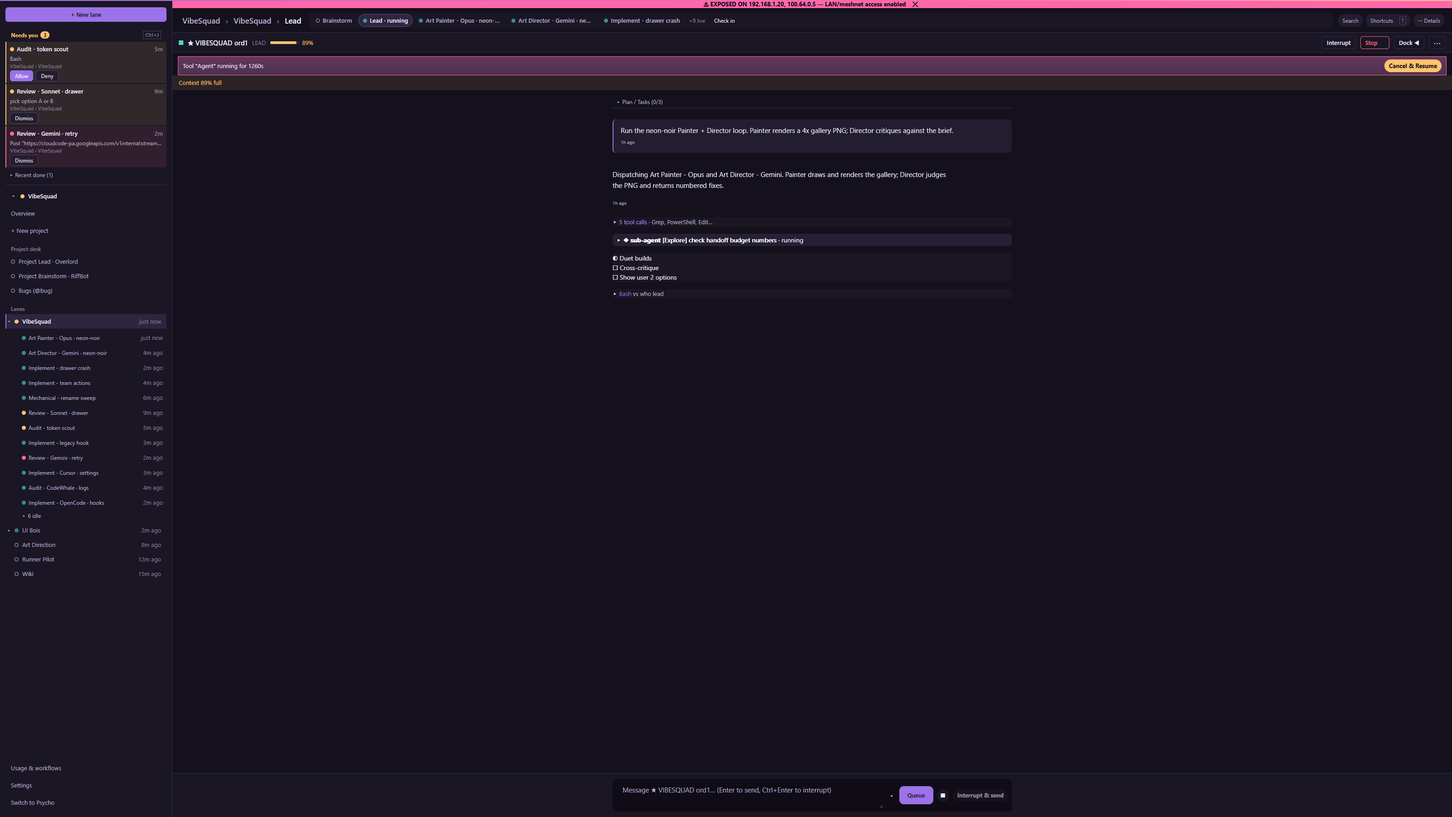
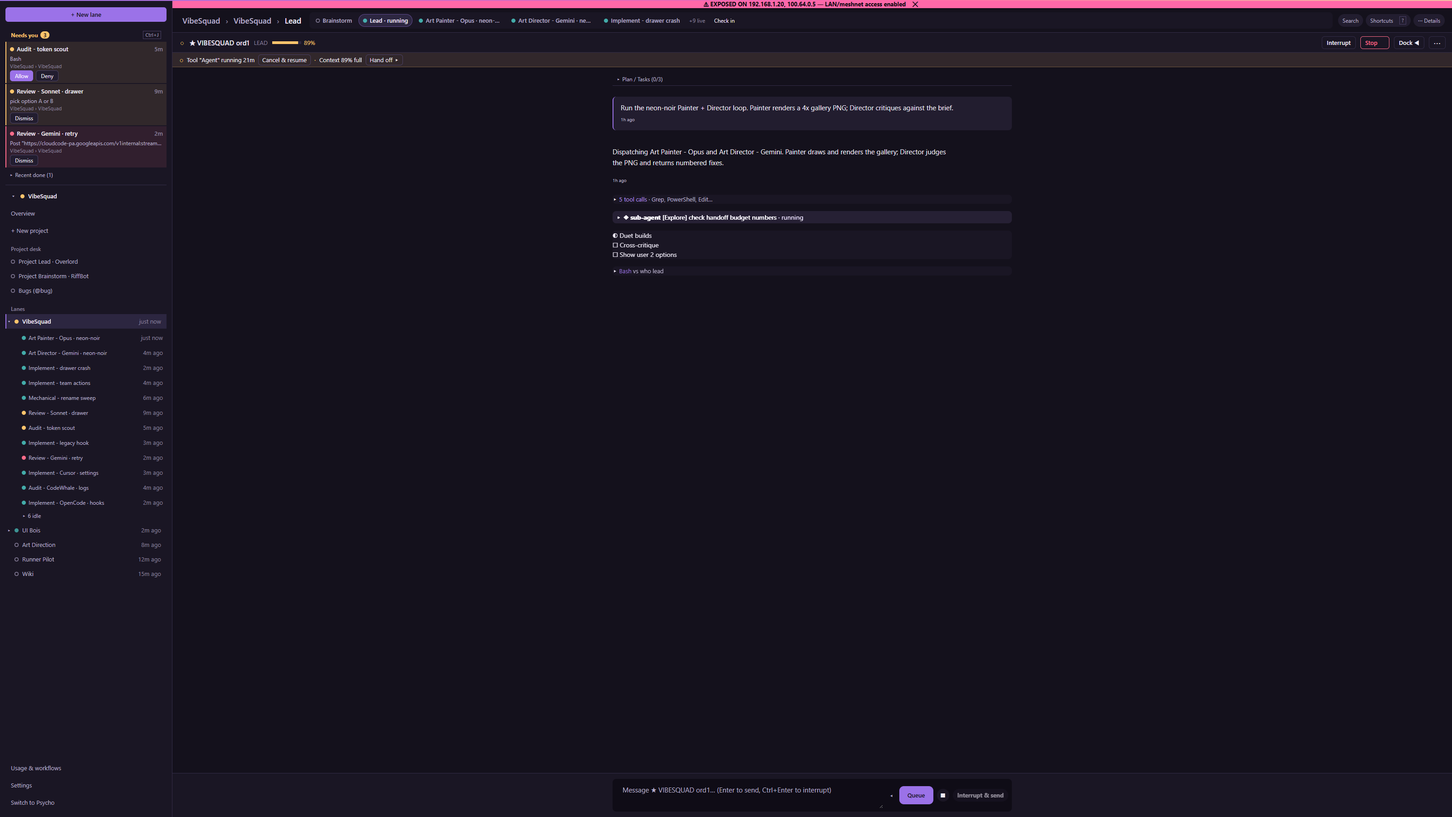
D3a director/code review fixes: single 32px amber strip with ghost actions + human durations, text state glyph, Normal flag bar, reload catch, Ctrl+Enter summary save

Changed region(s): [[0.0938, 0.0311, 1.0, 0.3422]]

diff --git a/src/BoringAgentHeader.tsx b/src/BoringAgentHeader.tsx
@@ -1,11 +1,11 @@
 import { useEffect, useRef, useState } from "react";
 import type { PaseoAgent } from "./agentTypes";
-import { archiveAgent, markAgentRead, markAgentUnread, stopAgent } from "./paseo";
+import { archiveAgent, markAgentRead, markAgentUnread, sendMessage, stopAgent } from "./paseo";
 import { DEMO } from "./demoFlag";
 import { isLocallyHidden, isMarkedUnread } from "./attentionLocal";
 import { runnerReloadTimeline } from "./runnerBridge";
 import { AgentTitleEdit } from "./QuickWinsUi";
-import { shouldComposerSubmit } from "./IdeaInbox";
+import { isImeComposing, shouldComposerSubmit } from "./IdeaInbox";
 import { ConfirmButton, ago, shortPath, useTick } from "./ui";
 import { LEGACY_NEEDS_LABEL } from "./userName";
 import { AGENT_TYPE_LABEL, kindOf } from "./teams";
@@ -16,7 +16,7 @@ import { AttachFiles, HardeningBar, NeedsYouControls, SessionActions, formatCost
 import { useAgentConfig } from "./useAgentConfig";
 import { FeaturesMenu } from "./FeaturesMenu";
 import { SandboxView } from "./SandboxView";
-import { auditAntigravityAgent } from "./antigravity";
+import { CANCEL_AND_RESUME_PROMPT, auditAntigravityAgent } from "./antigravity";
 import { openBriefEditor } from "./pinActions";
 import type { Entry } from "./Timeline";
 import { BORING_CTX_WARN_PCT, boringHeaderStrip } from "./boringHeaderStrip";
@@ -65,21 +65,33 @@ export type BoringAgentHeaderProps = {
   onFeedback: (verdict: "good" | "lost") => Promise<void>;
 };
 
+const GLYPH_CHAR: Record<string, string> = { run: "●", idle: "○", attn: "!", stalled: "◌", err: "✕", done: "✓" };
+
+function humanAge(sec: number): string {
+  if (sec < 120) return `${sec}s`;
+  if (sec < 7200) return `${Math.round(sec / 60)}m`;
+  return `${Math.round(sec / 3600)}h`;
+}
+
 export function BoringAgentHeader(p: BoringAgentHeaderProps) {
   const { agent } = p;
   const now = useTick();
   const [menuOpen, setMenuOpen] = useState(false);
   const [reloadBusy, setReloadBusy] = useState(false);
   const [copied, setCopied] = useState("");
+  const [flagOpen, setFlagOpen] = useState(false);
+  const [resumeBusy, setResumeBusy] = useState(false);
   const menuRef = useRef<HTMLDivElement>(null);
   // Same provider/model/mode/thinking state + Shift+Tab mode cycling as Psycho DrawerHeader (shared hook).
   const cfg = useAgentConfig({ agent, active: p.active, isBs: p.isBs, onSuccessor: p.onSuccessor, doRestart: p.doRestart, stagedSwitch: p.stagedSwitch, onStageSwitch: p.onStageSwitch });
-  const attachBlocked = !!auditAntigravityAgent(agent, p.entries).a5ReadBlocked;
+  const audit = auditAntigravityAgent(agent, p.entries);
+  const attachBlocked = !!audit.a5ReadBlocked;
+  const hung = audit.a3HungTool;
   const labels = (agent.labels ?? {}) as Record<string, string>;
   const kind = kindOf(agent);
   const prov = providerSpec(agent.provider);
 
-  useEffect(() => setMenuOpen(false), [agent.id]);
+  useEffect(() => { setMenuOpen(false); setFlagOpen(false); }, [agent.id]);
   useEffect(() => {
     if (!menuOpen) return;
     const onDown = (e: PointerEvent) => {
@@ -115,13 +127,28 @@ export function BoringAgentHeader(p: BoringAgentHeaderProps) {
     planHandedOff: p.planHandedOff,
     nowMs: now,
   });
-  const glyph = boringStateGlyph(strip.some((s) => s.kind === "stalled") ? "stalled" : agent.status, p.att?.tone);
+  const hungText = hung ? `Tool "${hung.name}" running ${humanAge(hung.ageSeconds)}` : "";
+  const stripItems = strip.map((s) => (s.kind === "stalled" ? { ...s, text: hung && p.active ? hungText : s.text.replace(/^Stalled: no update for /, "No update for ") } : s));
+  if (hung && p.active && !stripItems.some((s) => s.kind === "stalled")) stripItems.unshift({ kind: "stalled", text: hungText });
+  const glyph = boringStateGlyph(stripItems.some((s) => s.kind === "stalled") ? "stalled" : agent.status, p.att?.tone);
+  const cancelResume = async () => {
+    if (!hung) return;
+    setResumeBusy(true);
+    try {
+      await stopAgent(agent.id);
+      await sendMessage(agent.id, CANCEL_AND_RESUME_PROMPT(hung.name), undefined, { activeTurnBehavior: "interrupt" });
+    } catch (e) {
+      alert(`Cancel & resume failed: ${e}`);
+    } finally {
+      setResumeBusy(false);
+    }
+  };
   const running = agent.status === "running" && !agent.archivedAt;
   const roleLine = [AGENT_TYPE_LABEL[p.agentType], labels.lane ? `@${labels.lane}` : ""].filter(Boolean).join(" · ");
   const canHandoff = !agent.archivedAt && ((kind === "lead" && !!p.onSuccessor) || p.isBs);
   const close = () => setMenuOpen(false);
   const cost = (agent.lastUsage as any)?.totalCostUsd ?? (agent as any)?.usage?.totalCostUsd;
-  const showNeedsYou = needsYouFlagged || isMarkedUnread(agent.id);
+  const showNeedsYou = needsYouFlagged || isMarkedUnread(agent.id) || flagOpen;
   const copy = (what: string, text: string) => {
     navigator.clipboard?.writeText(text).catch(() => {});
     setCopied(what);
@@ -131,7 +158,7 @@ export function BoringAgentHeader(p: BoringAgentHeaderProps) {
   return (
     <>
       <header className="boring-agent-header" data-testid="boring-agent-header" data-glyph={glyph}>
-        <span className={`boring-agent-glyph st-${glyph}`} data-testid="boring-agent-glyph" title={p.att?.reason ?? agent.status} />
+        <span className={`boring-agent-glyph st-${glyph}`} data-testid="boring-agent-glyph" title={p.att?.reason ?? agent.status} aria-label={glyph}>{GLYPH_CHAR[glyph] ?? "○"}</span>
         <span className="boring-agent-name" data-testid="boring-agent-name">
           <AgentTitleEdit agent={agent}>{agent.title ?? agent.id.slice(0, 8)}</AgentTitleEdit>
         </span>
@@ -199,6 +226,9 @@ export function BoringAgentHeader(p: BoringAgentHeaderProps) {
                   Mark unread
                 </button>
               )}
+              <button type="button" role="menuitem" data-testid="boring-flag-btn" title="Flag this chat as needing you" onClick={() => { setFlagOpen((v) => !v); close(); }}>
+                {flagOpen ? "Hide flag bar" : "Flag needs you…"}
+              </button>
               <button type="button" role="menuitem" data-testid="drawer-search-btn" title="Search transcript, jump between prompts, filter the timeline" onClick={() => { window.dispatchEvent(new CustomEvent("vs:timeline-search", { detail: { agentId: agent.id } })); close(); }}>
                 Search transcript
               </button>
@@ -212,7 +242,8 @@ export function BoringAgentHeader(p: BoringAgentHeaderProps) {
                   close();
                   if (DEMO) return;
                   setReloadBusy(true);
-                  try { runnerReloadTimeline(agent.id); } finally { setReloadBusy(false); }
+                  cfg.setReloadError("");
+                  try { runnerReloadTimeline(agent.id); } catch (e) { cfg.setReloadError(String(e)); } finally { setReloadBusy(false); }
                 }}
               >
                 Reload session
@@ -328,7 +359,18 @@ export function BoringAgentHeader(p: BoringAgentHeaderProps) {
           {p.summaryLoading ? (
             <div className="muted small">Loading summary…</div>
           ) : (
-            <textarea rows={6} value={p.summaryText} onChange={(e) => p.setSummaryText(e.target.value)} placeholder="# Brainstorm Summary (Decided / Open / In flight)" />
+            <textarea
+              rows={6}
+              value={p.summaryText}
+              onChange={(e) => p.setSummaryText(e.target.value)}
+              placeholder="# Brainstorm Summary (Decided / Open / In flight)"
+              onKeyDown={(e) => {
+                if ((e.key === "Enter" || e.code === "Enter" || e.code === "NumpadEnter") && !isImeComposing(e) && (e.ctrlKey || e.metaKey) && !p.summarySaving && !p.summaryLoading) {
+                  e.preventDefault();
+                  void p.saveSummary();
+                }
+              }}
+            />
           )}
         </div>
       )}
@@ -359,12 +401,35 @@ export function BoringAgentHeader(p: BoringAgentHeaderProps) {
         </div>
       )}
       {p.att && p.att.tone !== "needs-you" && p.att.tone !== "finished" && <div className={`banner ${p.att.tone}`}>{p.att.reason}</div>}
-      {showNeedsYou ? <NeedsYouControls agent={agent} /> : null}
-      {p.active && <HardeningBar agent={agent} entries={p.entries} />}
-      {strip.length > 0 && (
+      {showNeedsYou ? <div className="boring-needs-you-wrap"><NeedsYouControls agent={agent} /></div> : null}
+      {p.active && <HardeningBar agent={agent} entries={p.entries} hideHungTool />}
+      {stripItems.length > 0 && (
         <div className="boring-status-strip" data-testid="boring-status-strip" role="status">
-          {strip.map((s) => (
-            <span key={s.kind} className={`boring-strip-item strip-${s.kind}`} data-strip={s.kind}>{s.text}</span>
+          {stripItems.map((s, i) => (
+            <span key={s.kind} className={`boring-strip-item strip-${s.kind}`} data-strip={s.kind}>
+              {i > 0 && <span className="boring-strip-sep" aria-hidden="true">·</span>}
+              {s.kind === "stalled" && <span className="boring-strip-glyph" aria-hidden="true">◌</span>}
+              {s.text}
+              {s.kind === "stalled" && hung && p.active && (
+                <button type="button" className="boring-strip-btn" data-testid="boring-strip-resume" disabled={resumeBusy} onClick={() => void cancelResume()}>
+                  {resumeBusy ? "…" : "Cancel & resume"}
+                </button>
+              )}
+              {s.kind === "context" && canHandoff && (
+                <button
+                  type="button"
+                  className="boring-strip-btn"
+                  data-testid="boring-strip-handoff"
+                  disabled={p.restarting}
+                  onClick={() => {
+                    if (p.isBs) void p.doRestart(p.planHandedOff ? "handoff" : p.bsUsedTokens >= p.warnTokens ? "warn-80k" : "manual");
+                    else p.onSuccessor?.();
+                  }}
+                >
+                  Hand off ▸
+                </button>
+              )}
+            </span>
           ))}
         </div>
       )}

diff --git a/src/boring.css b/src/boring.css
@@ -975,12 +975,11 @@ html[data-vibe="boring"] .boring-topbar-title { flex: 0 0 auto; }
 
 /* ===== D3a (@desk, UX_REVIEW 2.6): BoringAgentHeader ===== */
 html[data-vibe="boring"] .boring-agent-header { display: flex; align-items: center; gap: 10px; min-height: 44px; padding: 6px 14px; background: var(--surface-1); border-bottom: 1px solid var(--border); position: relative; flex: 0 0 auto; }
-html[data-vibe="boring"] .boring-agent-glyph { flex: 0 0 auto; width: 10px; height: 10px; border-radius: 50%; background: var(--text-3); }
-html[data-vibe="boring"] .boring-agent-glyph.st-run { background: var(--st-run); }
-html[data-vibe="boring"] .boring-agent-glyph.st-attn { background: var(--st-attn); }
-html[data-vibe="boring"] .boring-agent-glyph.st-err { background: var(--st-err); }
-html[data-vibe="boring"] .boring-agent-glyph.st-done { background: var(--st-done); }
-html[data-vibe="boring"] .boring-agent-glyph.st-stalled { background: transparent; box-shadow: inset 0 0 0 1.5px var(--st-attn); }
+html[data-vibe="boring"] .boring-agent-glyph { flex: 0 0 auto; width: 14px; text-align: center; font: 600 14px/1 var(--font-sans, inherit); color: var(--text-3); background: none; border-radius: 0; }
+html[data-vibe="boring"] .boring-agent-glyph.st-run { color: var(--st-run); }
+html[data-vibe="boring"] .boring-agent-glyph.st-attn, html[data-vibe="boring"] .boring-agent-glyph.st-stalled { color: var(--st-attn); }
+html[data-vibe="boring"] .boring-agent-glyph.st-err { color: var(--st-err); }
+html[data-vibe="boring"] .boring-agent-glyph.st-done { color: var(--st-done); }
 html[data-vibe="boring"] .boring-agent-name { font-size: 15px; font-weight: 600; color: var(--text-1); min-width: 0; overflow: hidden; text-overflow: ellipsis; white-space: nowrap; }
 html[data-vibe="boring"] .boring-agent-role { font-size: var(--t-ui); color: var(--text-3); white-space: nowrap; }
 html[data-vibe="boring"] .boring-agent-spacer { flex: 1 1 0; }
@@ -1001,17 +1000,21 @@ html[data-vibe="boring"] .boring-agent-menu > button:disabled { opacity: 0.5; }
 html[data-vibe="boring"] .boring-agent-menu-sep { height: 1px; margin: 4px 6px; background: var(--border); }
 html[data-vibe="boring"] .boring-agent-menu-meta { padding: 4px 10px; font-size: 12px; color: var(--text-3); }
 html[data-vibe="boring"] .boring-agent-menu-archive { padding: 4px 6px; }
-html[data-vibe="boring"] .boring-status-strip { display: flex; align-items: center; gap: 16px; height: 32px; padding: 0 14px; flex: 0 0 auto; background: var(--st-attn-bg); border-bottom: 1px solid var(--border); font-size: var(--t-ui); color: var(--st-attn); }
-html[data-vibe="boring"] .boring-strip-item.strip-context:last-child { color: var(--st-attn); }
+html[data-vibe="boring"] .boring-status-strip { display: flex; align-items: center; gap: 8px; height: 32px; margin: 0; border-radius: 0; padding: 0 16px; flex: 0 0 auto; background: color-mix(in srgb, var(--st-attn) 10%, var(--surface-1)); border-bottom: 1px solid color-mix(in srgb, var(--st-attn) 30%, transparent); font-size: var(--t-ui); color: var(--text-1); }
+html[data-vibe="boring"] .boring-strip-item { display: inline-flex; align-items: center; gap: 8px; color: var(--text-1); }
+html[data-vibe="boring"] .boring-strip-glyph, html[data-vibe="boring"] .boring-strip-sep { color: var(--st-attn); }
+html[data-vibe="boring"] .boring-strip-btn { background: transparent !important; background-image: none !important; border: 1px solid var(--border-strong) !important; color: var(--text-1) !important; height: 24px; padding: 0 8px; border-radius: 6px !important; font: 500 12px/16px var(--font-sans, inherit); cursor: pointer; box-shadow: none !important; }
+html[data-vibe="boring"] .boring-strip-btn:hover:not(:disabled) { background: var(--surface-3) !important; }
+html[data-vibe="boring"] .boring-needs-you-wrap .you-flag, html[data-vibe="boring"] .boring-chat-column:not(.boring-details-open) .boring-needs-you-wrap .you-flag { display: flex !important; }
 html[data-vibe="boring"] .boring-agent-panel { padding: 8px 14px; background: var(--surface-1); border-bottom: 1px solid var(--border); display: flex; flex-direction: column; gap: 6px; }
 html[data-vibe="boring"] .boring-agent-panel-head { display: flex; align-items: center; gap: 10px; justify-content: space-between; }
 html[data-vibe="boring"] .boring-agent-panel textarea { width: 100%; background: var(--surface-sunken); color: var(--text-1); border: 1px solid var(--border); border-radius: 6px; padding: 6px 8px; font: inherit; }
-html[data-vibe="boring"] .boring-agent-menu-archive .btn { background: transparent !important; background-image: none !important; border: 1px solid var(--border) !important; color: var(--st-attn) !important; border-radius: 6px !important; width: 100%; text-align: left; }
+html[data-vibe="boring"] .boring-agent-menu-archive .btn { background: transparent !important; background-image: none !important; border: 1px solid var(--border) !important; color: var(--st-err) !important; border-radius: 6px !important; width: 100%; text-align: left; }
 
 /* D3a fix round: restored config/session controls inside the ⋯ menu + bars under the header */
 html[data-vibe="boring"] .boring-agent-menu { max-height: min(78vh, 720px); overflow-y: auto; min-width: 280px; }
 html[data-vibe="boring"] .boring-agent-menu-section { display: flex; flex-direction: column; gap: 6px; padding: 6px 10px; }
-html[data-vibe="boring"] .boring-agent-menu-title { font-size: 11px; text-transform: uppercase; letter-spacing: 0.06em; color: var(--text-3); }
+html[data-vibe="boring"] .boring-agent-menu-title { font: 500 11px/16px var(--font-sans, inherit); text-transform: none; letter-spacing: 0; color: var(--text-3); }
 html[data-vibe="boring"] .boring-cfg-row { display: grid; grid-template-columns: 64px 1fr; align-items: center; gap: 8px; font-size: var(--t-ui); color: var(--text-2); }
 html[data-vibe="boring"] .boring-cfg-row select,
 html[data-vibe="boring"] .boring-cfg-row input { width: 100% !important; height: 26px !important; font-size: 12px !important; background: var(--surface-1) !important; color: var(--text-1) !important; border: 1px solid var(--border) !important; border-radius: 6px; padding: 2px 6px; min-width: 0; }

diff --git a/src/DrawerHeader.tsx b/src/DrawerHeader.tsx
@@ -137,7 +137,7 @@ function HardeningBanner(props: {
   );
 }
 
-export function HardeningBar({ agent, entries }: { agent: PaseoAgent; entries: Entry[] }) {
+export function HardeningBar({ agent, entries, hideHungTool }: { agent: PaseoAgent; entries: Entry[]; hideHungTool?: boolean }) {
   useTick();
   const a = auditAntigravityAgent(agent, entries);
   const nudge = (text: string) => () => sendMessage(agent.id, text);
@@ -164,7 +164,7 @@ export function HardeningBar({ agent, entries }: { agent: PaseoAgent; entries: E
           onAction={nudge(PROMISED_RUN_NUDGE_PROMPT)}
         />
       )}
-      {a.a3HungTool && (
+      {a.a3HungTool && !hideHungTool && (
         <HardeningBanner
           tone={a.a3HungTool.severity === "critical" ? "hot" : "warn"}
           text={`Tool "${a.a3HungTool.name}" running for ${a.a3HungTool.ageSeconds}s`}

diff --git a/docs/shots/desk-d3/REVIEW_director_d3a.md b/docs/shots/desk-d3/REVIEW_director_d3a.md
@@ -1,0 +1,53 @@
+# Art Director Review — `@desk` Unit `unit-desk-d3a-header` (HEAD `7c87bd3`)
+
+**Verdict:** **FAIL**
+
+Reviewed at 3200×1800 (4K @ 120% zoom), Dark and Light themes:
+- `docs/shots/desk-d3/d3a-dark-header.png`
+- `docs/shots/desk-d3/d3a-light-header.png`
+- `docs/shots/desk-d3/d3a-dark-menu.png`
+- `docs/shots/desk-d3/d3a-light-menu.png`
+- `docs/shots/desk-d3/d3a-dark-strip.png`
+- `docs/shots/desk-d3/d3a-light-strip.png`
+- Baseline comparison: `docs/shots/desk-d2/d2-dark-chat.png`, `docs/shots/desk-d2/d2-light-chat.png`
+
+---
+
+## Rubric Check
+
+| Gate | Verdict | Notes |
+|---|---|---|
+| **1. One line, calm, no competing accents** (only `[Allow]` and `[Send]`/`[Queue]` filled) | **FAIL** | Header row itself is a calm 48px single line (`[Interrupt]`, `[Stop]`, `[Dock ◀]`, `[⋯]` are all outline/ghost). However, in `d3a-{dark,light}-strip.png`, the stall bar renders a bright **filled amber CTA** (`[Cancel & Resume]`), competing directly with `[Allow]` and `[Send]`/`[Queue]`. In `d3a-*-header.png`, the header state glyph is also a muted grey square `■` instead of the semantic state dot (`○` idle / `●` `--st-run` running). |
+| **2. `[Stop]` reads as dangerous but not shouting** | **PASS** | Outlined button with `--st-err` (`#ff6b8a` dark / `#c22a52` light) text and subtle danger border (`1px solid color-mix(in srgb, var(--st-err) 40%, transparent)`). Clear hierarchy beside neutral `[Interrupt]`. |
+| **3. `⋯` menu organised into scannable groups; selects usable** | **PASS (with polish)** | The 4 selects (`Provider`, `Model`, `Mode`, `Thinking`) are cleanly aligned in a 2-column label/select grid and read well in both dark and light. Needs a hairline divider inside the 6-item top action list, sentence-case section heading (`Model & mode` instead of tracked `MODEL & MODE`), and `--st-err` (or muted secondary) on `[Archive]` instead of amber. |
+| **4. Status strip urgency colour, height, and wording** | **FAIL** | Spec requires **one conditional 32px status strip** (`UX_REVIEW.md` S6, §3, §4.2). `d3a-{dark,light}-strip.png` renders **two stacked bars** (~72px total height): a legacy 40px inset rounded pink error-tinted stall banner (`Tool "Agent" running for 1260s` in raw seconds instead of `21m`) stacked above a full-bleed 32px amber context bar (`Context 89% full` with no `Hand off ▸` action). |
+| **5. Alignment with breadcrumb/tabs row and 880px column** | **PARTIAL** | Header left/right edges (`16px` padding) align cleanly with the D2 breadcrumb and `Details` button. However, the two stacked status strips have mismatched horizontal geometry (one inset with `8px` margin + border-radius, one full-bleed `0px`), and neither aligns its content to the `880px` centred conversation column. |
+| **6. Contrast (dark & light)** | **PASS** | Surface and text contrast pass AA across both themes (`#1a1624`/`#14111c` dark, `#ffffff`/`#f6f4f9` light, with approved `#ece8f2`/`#e6e1ef` light tints). |
+
+---
+
+## Required Fixes (MUST)
+
+1. **MUST-1 · Consolidate status strip into a single 32px bar, remove filled `[Cancel & Resume]` CTA, and fix urgency colour/copy** (`src/BoringAgentHeader.tsx`, `src/AgentDrawer.tsx`, `src/boring.css`):
+   - Hide the legacy drawer stall banner (`Tool "Agent" running for 1260s`) in Normal mode (`html[data-vibe="boring"] .stall-banner { display: none; }` or omit in `AgentDrawer.tsx` when `BoringAgentHeader` is active) and merge stall + handoff/context ≥72% into the single `.boring-status-strip` (`height: 32px`).
+   - Format stall duration in human units (`Stalled · Tool "Agent" running 21m` instead of `1260s`, per `UX_REVIEW.md` C10).
+   - When multiple conditions hold, join with `·` on one line: e.g. `◌ Tool "Agent" running 21m · Context 89% full` with inline ghost/text actions `Cancel & resume` and `Hand off ▸` (`background: transparent; border: 1px solid var(--border-strong); color: var(--text-1); height: 24px; padding: 0 8px; font: 500 12px/16px var(--font-sans)` — **never filled amber**).
+   - Use `--st-attn-bg` (`color-mix(in srgb, var(--st-attn) 10%, var(--surface-1))`) and `1px solid color-mix(in srgb, var(--st-attn) 30%, transparent)` bottom border with `--st-attn` glyph (`#ffc46c` dark / `#a86a00` light) and `--text-1` copy — never the pink permission/error banner tint for stalls.
+
+2. **MUST-2 · Use the unified semantic state glyph in `.boring-agent-header` instead of a grey square `■`** (`src/BoringAgentHeader.tsx`, `src/boring.css`):
+   - Replace the static grey square glyph (`■`) before the agent title with the §4.3/§4.5 state glyph matching the member tab above it: `●` (`color: var(--st-run)` `#4fd6cf` dark / `#16857f` light) when running, `○` (`color: var(--text-3)`) when idle, `!` (`color: var(--st-attn)`) when needs-you/permission, `◌` (`color: var(--st-attn)`) when stalled, `✕` (`color: var(--st-err)`) on error.
+
+---
+
+## Polish Fixes (NICE)
+
+1. **NICE-1 · Header role/lane subtitle case and format** (`src/BoringAgentHeader.tsx`, `src/boring.css`):
+   - Change the all-caps `.boring-agent-role` (`BRAINSTORM`, `LEAD`) to sentence-case `role · lane` (e.g. `Brainstorm · VibeSquad`, `Lead · VibeSquad`) using `--t-small` (`font-size: 12px; line-height: 16px; font-weight: 500; color: var(--text-3); text-transform: none; letter-spacing: 0`), matching `UX_REVIEW.md` §2.6 (`state glyph · name · role/lane`) and C6.
+
+2. **NICE-2 · Align `.boring-status-strip` inner layout with header/column** (`src/boring.css`):
+   - Remove the inset margin/border-radius mismatch so `.boring-status-strip` sits flush under `.boring-agent-header` (`margin: 0; border-radius: 0; padding: 0 16px; height: 32px`), or cap its inner container to `max-width: 880px; margin: 0 auto` to align with the timeline column.
+
+3. **NICE-3 · `⋯` menu scannability & token cleanup** (`src/BoringAgentHeader.tsx`, `src/boring.css`):
+   - Add a `1px solid var(--border)` divider (`margin: 4px 0`) in `.boring-agent-menu` separating inspection/state actions (`Mark unread`, `Search transcript`, `Summary`, `Park in Inbox`) from lifecycle actions (`Handoff to fresh Buddy`, `Reload session`).
+   - Change `MODEL & MODE` heading to sentence-case `Model & mode` (`text-transform: none; letter-spacing: 0; font: 500 11px/16px var(--font-sans); color: var(--text-3)`).
+   - Style `[Archive]` at the bottom of the menu with `color: var(--st-err)` (`#ff6b8a` dark / `#c22a52` light) instead of amber `--st-attn`.

diff --git a/docs/shots/desk-d3/REVIEW_code_d3a.md b/docs/shots/desk-d3/REVIEW_code_d3a.md
@@ -1,0 +1,15 @@
+PASS 0/2/1 7c87bd3
+
+- **(M1) Normal `you-flag` bar hidden until legacy `boring-details-open` toggle:** `src/BoringAgentHeader.tsx:124,362` sets `showNeedsYou = needsYouFlagged || isMarkedUnread(agent.id)` and renders `<NeedsYouControls>` only when already flagged, unlike `src/DrawerHeader.tsx:1098` (`needsYouFlagged || isMarkedUnread(agent.id) || moreOpen`) which exposes the manual `+ Flag needs <user>` bar (`you-flag`) when More is open. Even if rendered, `src/boring.css:277` hides `.you-flag` under `:not(.boring-details-open)` without a D3a override (compare `src/boring.css:1023-1025`).
+- **(M2) Unbounded `runnerReloadTimeline` exception in Normal menu:** `src/BoringAgentHeader.tsx:215` calls `try { runnerReloadTimeline(agent.id); } finally { setReloadBusy(false); }` with no `catch` block, whereas `src/DrawerHeader.tsx:852-855` catches errors into `setReloadError(String(e))` and resets `setReloadError("")` before calling.
+- **(L1) Brainstorm summary `Ctrl/Cmd+Enter` save shortcut dropped in Normal:** `src/BoringAgentHeader.tsx:331` renders the summary `<textarea>` without the `onKeyDown` handler from `src/DrawerHeader.tsx:1027-1038` that saves on `Ctrl+Enter` / `Cmd+Enter`.
+
+## Checklist Verification
+1. **Hook extraction (`src/useAgentConfig.tsx:43-401`):** Verbatim extraction from `src/DrawerHeader.tsx:705`. Identical state, refs (`modelSubmittedRef`), effect dependencies (`[agent.model, modelBusy]`, `[agent.id]`, `[effectiveProvider, agent.id]`, `[active, agent, modeBusy, staged]`), cleanup (`cancelled = true`, `removeEventListener`), and staged-switch semantics. Psycho (`vibe === "fun"`) and `chatOnly` paths in `src/AgentDrawer.tsx:550-647` are unchanged.
+2. **Shift+Tab:** Registered in `src/useAgentConfig.tsx:235-255` gated on `active`. Since `src/AgentDrawer.tsx:550` mounts either `BoringAgentHeader` or `DrawerHeader` (never both for the same drawer), there is no double-binding.
+3. **Action handlers:** `src/BoringAgentHeader.tsx` reuses `markAgentRead`, `markAgentUnread`, `stopAgent` (for both Interrupt at `:160` and Stop at `:164`, documented at `:159`), `runnerReloadTimeline`, `doRestart`, `onSuccessor`, `archiveAgent`, `SessionActions`, `NeedsYouControls`, `HardeningBar`, and `AttachFiles`.
+4. **Testid parity:** 21 of 28 `DrawerHeader` testids are preserved across `BoringAgentHeader` + `useAgentConfig` + `SessionActions`; the 7 dropped (`drawer-head-compact`, `drawer-config-menu`, `drawer-config-menu-btn`, `drawer-more-toggle`, `pin-rail-buddy-tools`, `sky-zones`, `brainstorm-ctx-bar`) are Psycho pin-focus / sky-zone / inline-bar chrome replaced by `boring-agent-header`, `boring-agent-menu-btn`, and `boring-ctx-meter`.
+5. **Edited tests:** All 9 test files concatenate `useAgentConfig.tsx` with `DrawerHeader.tsx` without weakening any assertion; `npx tsc --noEmit` and all 677 tests pass.
+6. **CSS scope:** `src/boring.css:976-1025` stays in the D3a section, every rule is scoped under `html[data-vibe="boring"]`, and neither `src/styles.css` nor `art/**` is touched.
+7. **"Hypnospace":** Appears nowhere in the diff (`git diff master..HEAD`).
+8. **Cause-vs-symptom gate:** PASS — extracts shared hook and builds a dedicated Normal header component rather than CSS-hiding Psycho DOM. Note: see `docs/shots/desk-d3/REVIEW_director_d3a.md` for visual/Art Director items (`HardeningBar` stall strip integration, light contrast, and `.boring-agent-glyph` border-radius).
